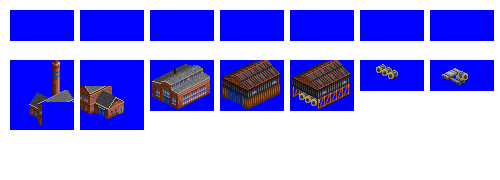
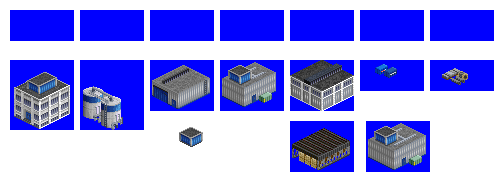
New Modern Goods Factory graphics

diff --git a/src/industries/factory_2.py b/src/industries/factory_2.py
@@ -40,9 +40,10 @@ industry.enable_in_economy(
 
     ],
     prod_cargo_types_with_output_ratios=[
-        ("GOOD", 4),
+        ("GOOD", 5),
     ],
-    fund_cost_multiplier="11",
+    fund_cost_multiplier="8",
+    intro_year="1965",
 )
 
 spriteset_ground = industry.add_spriteset(
@@ -70,11 +71,11 @@ spriteset_6 = industry.add_spriteset(
 spriteset_7 = industry.add_spriteset(
     sprites=[(430, 60, 64, 31, -31, 0)],
 )
-sprite_smoke = industry.add_smoke_sprite(
-    smoke_type="dark_smoke_small",
-    xoffset=0,
-    yoffset=8,
-    zoffset=53,
+spriteset_8 = industry.add_spriteset(
+    sprites=[(290, 121, 64, 51, -31, -20)],
+)
+spriteset_9 = industry.add_spriteset(
+    sprites=[(10, 10, 64, 31, -31, 0)],
 )
 
 industry.add_spritelayout(
@@ -82,8 +83,6 @@ industry.add_spritelayout(
     ground_sprite=spriteset_ground,
     ground_overlay=spriteset_ground_overlay,
     building_sprites=[spriteset_1],
-    smoke_sprites=[sprite_smoke],
-    fences=["nw", "ne", "se", "sw"],
 )
 industry.add_spritelayout(
     id="factory_2_spritelayout_2",
@@ -104,7 +103,7 @@ industry.add_spritelayout(
     ground_sprite=spriteset_ground,
     ground_overlay=spriteset_ground_overlay,
     building_sprites=[spriteset_4],
-    fences=["nw", "ne", "se"],
+    fences=["nw", "ne", "se", "sw"],
 )
 industry.add_spritelayout(
     id="factory_2_spritelayout_5",
@@ -127,43 +126,53 @@ industry.add_spritelayout(
     building_sprites=[spriteset_7],
     fences=["nw", "ne", "se", "sw"],
 )
+industry.add_spritelayout(
+    id="factory_2_spritelayout_8",
+    ground_sprite=spriteset_ground,
+    ground_overlay=spriteset_ground_overlay,
+    building_sprites=[spriteset_8],
+    fences=["nw", "ne", "se", "sw"],
+)
+industry.add_spritelayout(
+    id="factory_2_spritelayout_9",
+    ground_sprite=spriteset_ground,
+    ground_overlay=spriteset_ground_overlay,
+    building_sprites=[spriteset_9],
+)
 
 industry.add_industry_layout(
     id="factory_2_industry_layout_1",
     layout=[
-        (0, 0, "factory_2_tile_1", "factory_2_spritelayout_3"),
-        (0, 1, "factory_2_tile_1", "factory_2_spritelayout_3"),
-        (0, 2, "factory_2_tile_1", "factory_2_spritelayout_5"),
-        (0, 3, "factory_2_tile_1", "factory_2_spritelayout_4"),
-        (0, 4, "factory_2_tile_1", "factory_2_spritelayout_5"),
-        (1, 0, "factory_2_tile_1", "factory_2_spritelayout_3"),
-        (1, 1, "factory_2_tile_1", "factory_2_spritelayout_3"),
-        (1, 2, "factory_2_tile_1", "factory_2_spritelayout_5"),
-        (1, 3, "factory_2_tile_1", "factory_2_spritelayout_4"),
-        (1, 4, "factory_2_tile_1", "factory_2_spritelayout_6"),
-        (2, 0, "factory_2_tile_1", "factory_2_spritelayout_3"),
-        (2, 1, "factory_2_tile_1", "factory_2_spritelayout_1"),
-        (2, 2, "factory_2_tile_1", "factory_2_spritelayout_2"),
-        (2, 3, "factory_2_tile_1", "factory_2_spritelayout_7"),
-        (2, 4, "factory_2_tile_1", "factory_2_spritelayout_7"),
+        (0, 0, "factory_2_tile_1", "factory_2_spritelayout_5"),
+        (0, 1, "factory_2_tile_1", "factory_2_spritelayout_5"),
+        (0, 2, "factory_2_tile_1", "factory_2_spritelayout_3"),
+        (0, 3, "factory_2_tile_1", "factory_2_spritelayout_1"),
+        (1, 0, "factory_2_tile_1", "factory_2_spritelayout_5"),
+        (1, 1, "factory_2_tile_1", "factory_2_spritelayout_5"),
+        (1, 2, "factory_2_tile_1", "factory_2_spritelayout_6"),
+        (1, 3, "factory_2_tile_1", "factory_2_spritelayout_9"),
+        (2, 0, "factory_2_tile_1", "factory_2_spritelayout_2"),
+        (2, 1, "factory_2_tile_1", "factory_2_spritelayout_6"),
+        (2, 2, "factory_2_tile_1", "factory_2_spritelayout_8"),
+        (2, 3, "factory_2_tile_1", "factory_2_spritelayout_4"),
     ],
 )
 industry.add_industry_layout(
     id="factory_2_industry_layout_2",
     layout=[
-        (0, 2, "factory_2_tile_1", "factory_2_spritelayout_3"),
-        (0, 3, "factory_2_tile_1", "factory_2_spritelayout_3"),
-        (1, 0, "factory_2_tile_1", "factory_2_spritelayout_1"),
-        (1, 1, "factory_2_tile_1", "factory_2_spritelayout_2"),
-        (1, 2, "factory_2_tile_1", "factory_2_spritelayout_3"),
-        (1, 3, "factory_2_tile_1", "factory_2_spritelayout_3"),
-        (2, 0, "factory_2_tile_1", "factory_2_spritelayout_4"),
-        (2, 1, "factory_2_tile_1", "factory_2_spritelayout_7"),
-        (2, 2, "factory_2_tile_1", "factory_2_spritelayout_6"),
-        (2, 3, "factory_2_tile_1", "factory_2_spritelayout_6"),
-        (3, 0, "factory_2_tile_1", "factory_2_spritelayout_4"),
+        (0, 2, "factory_2_tile_1", "factory_2_spritelayout_8"),
+        (0, 3, "factory_2_tile_1", "factory_2_spritelayout_4"),
+        (1, 0, "factory_2_tile_1", "factory_2_spritelayout_5"),
+        (1, 1, "factory_2_tile_1", "factory_2_spritelayout_5"),
+        (1, 2, "factory_2_tile_1", "factory_2_spritelayout_2"),
+        (1, 3, "factory_2_tile_1", "factory_2_spritelayout_9"),
+        (2, 0, "factory_2_tile_1", "factory_2_spritelayout_5"),
+        (2, 1, "factory_2_tile_1", "factory_2_spritelayout_5"),
+        (2, 2, "factory_2_tile_1", "factory_2_spritelayout_3"),
+        (2, 3, "factory_2_tile_1", "factory_2_spritelayout_7"),
+        (3, 0, "factory_2_tile_1", "factory_2_spritelayout_5"),
         (3, 1, "factory_2_tile_1", "factory_2_spritelayout_5"),
-        (3, 2, "factory_2_tile_1", "factory_2_spritelayout_4"),
-        (3, 3, "factory_2_tile_1", "factory_2_spritelayout_3"),
+        (3, 2, "factory_2_tile_1", "factory_2_spritelayout_6"),
+        (3, 3, "factory_2_tile_1", "factory_2_spritelayout_1"),
     ],
 )
